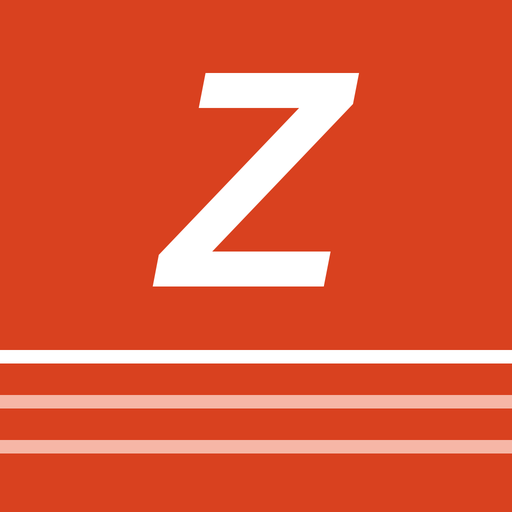
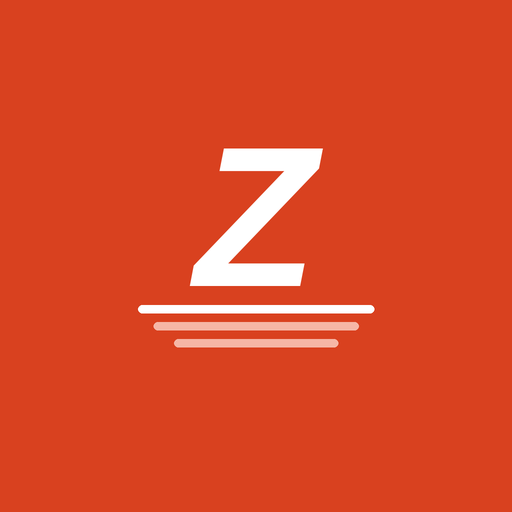
Zonas de pulso y ritmos recalculados con los entrenos; icono adaptable

diff --git a/index.html b/index.html
@@ -178,7 +178,6 @@ a.btn{display:inline-flex;align-items:center;justify-content:center}
 .toast .tbtn{background:transparent;border:0;color:var(--accent);font-weight:700;min-height:36px;padding:4px 6px;flex:none}
 @keyframes toastIn{from{opacity:0;transform:translate(-50%,12px)}to{opacity:1;transform:translate(-50%,0)}}
 @keyframes toastOut{to{opacity:0;transform:translate(-50%,12px)}}
-html.locked,html.locked body{overflow:hidden}
 button,a,select,.item,.ocard,.dayb{touch-action:manipulation}
 button,.btn,.item,.ocard,.dayb{transition:transform .12s ease,background-color .15s ease,border-color .15s ease,color .15s ease,box-shadow .15s ease}
 button:active:not(:disabled),.btn:active,.item:active{transform:scale(.975)}
@@ -462,7 +461,14 @@ function buildWeek(i){
 /* ---------- descripción de cada sesión con ritmos actuales ---------- */
 /* ---------- Zonas de pulso ---------- */
 const HR_Z=[{n:1,name:'Recuperación',lo:0,hi:0.70},{n:2,name:'Suave',lo:0.70,hi:0.80},{n:3,name:'Moderado',lo:0.80,hi:0.87},{n:4,name:'Umbral',lo:0.87,hi:0.93},{n:5,name:'Máximo',lo:0.93,hi:1}];
+const LT_Z=[[0,0.85],[0.85,0.90],[0.90,0.95],[0.95,1.00],[1.00,null]]; // zonas de Friel sobre el umbral
+function hrSource(){
+  if(state.hrm&&state.hrm.lthr) return 'lthr';
+  if(state.strava&&state.strava.hrZones) return 'strava';
+  return hrMaxNow()?'max':null;
+}
 function hrBounds(n){ // [mín, máx] en ppm de la zona n (1–5)
+  if(hrSource()==='lthr'){const L=state.hrm.lthr,z=LT_Z[n-1];return [Math.round(z[0]*L),z[1]?Math.round(z[1]*L):null];}
   const cz=state.strava&&state.strava.hrZones;
   if(cz) return [cz[n-1].min||0,cz[n-1].max>0?cz[n-1].max:null];
   const hm=hrMaxNow();if(!hm) return null;
@@ -617,6 +623,97 @@ function blocksHTML(d){
     return `<li class="blk ${b.k}"><div class="row between" style="align-items:baseline"><span class="bt">${esc(b.t)}</span><span class="bv num">${b.reps>1?`${b.reps} × `:''}${len}</span></div>
       <div class="bm num">${b.lo?`<span>${paceR(b.lo,b.hi)} /km</span>`:''}${b.z?`<span>${hrText(b.z[0],b.z[1])}</span>`:''}${b.rec?`<span>rec. ${esc(b.rec)}</span>`:''}</div>
       ${b.text?`<div class="small muted">${esc(b.text)}</div>`:''}</li>`;}).join('')}</ol>`;
+}
+
+/* =========================================================
+   Pulso medido: umbral (LTHR), FC máxima y ritmos desde la relación pulso–ritmo
+   ========================================================= */
+// FC máxima observada sin picos falsos: si la más alta supera en más de 6 ppm a la siguiente, se descarta
+function robustMax(vals){
+  const v=vals.filter(x=>x>120&&x<225).sort((a,b)=>b-a);
+  if(!v.length) return null;
+  return v.length>1&&v[0]-v[1]>6?v[1]:v[0];
+}
+// Fuentes para estimar el umbral de pulso (Friel): esfuerzos sostenidos con pulso registrado
+function lthrCandidates(){
+  const out=[],from=addDays(today(),-120);
+  const factor=min=>min<14?null:min<35?1.04:min<70?1.01:min<140?0.97:0.92; // pulso medio de carrera respecto al umbral
+  const runs=state.strava?state.strava.runs:[];
+  runs.filter(r=>r.date>=from&&r.hr).forEach(r=>{
+    const ses=r.sessionId?state.sessions.find(x=>x.id===r.sessionId):null;
+    const t=ses?ses.type:null,min=r.sec/60;
+    if(r.race||t==='race'){
+      const f=factor(min);if(f) out.push({v:r.hr/f,date:r.date,label:'carrera'});
+    }else if(t==='test'){
+      // solo los km rápidos del test: el pulso medio de un 5 km a tope ronda el 103 % del umbral
+      const segs=(r.laps.length>=3?r.laps:r.splits).filter(x=>x.hr),avg=r.sec/r.km,w=segs.filter(x=>x.sec/x.km<avg*0.97);
+      const ws=w.reduce((a,x)=>a+x.sec,0);if(ws>=14*60) out.push({v:w.reduce((a,x)=>a+x.hr*x.sec,0)/ws/1.03,date:r.date,label:'test de 5 km'});
+    }else if(t==='tempo'||t==='ritmo'){
+      // segunda mitad de la parte rápida: el pulso ya se ha estabilizado en el umbral
+      const segs=(r.laps.length>=3?r.laps:r.splits).filter(x=>x.hr&&x.km>=0.2);
+      if(segs.length>=3){
+        const avg=r.sec/r.km,work=segs.filter(x=>(x.gap||x.sec/x.km)<avg*0.97);
+        const wsec=work.reduce((a,x)=>a+x.sec,0);
+        if(wsec>=12*60){const half=work.slice(Math.floor(work.length/2));const hr=half.reduce((a,x)=>a+x.hr*x.sec,0)/half.reduce((a,x)=>a+x.sec,0);
+          out.push({v:t==='ritmo'&&state.profile&&['21k','42k'].includes(state.profile.goal)?hr/0.96:hr,date:r.date,label:t==='tempo'?'tempo':'sesión a ritmo de carrera'});}
+      }
+    }
+  });
+  (state.manual||[]).filter(m=>m.date>=from&&m.hr&&m.type==='race').forEach(m=>{const f=factor(m.time/60);if(f)out.push({v:m.hr/f,date:m.date,label:'competición'});});
+  return out.filter(c=>c.v>110&&c.v<215);
+}
+function updateHR(){
+  const H=state.hrm=state.hrm||{lthr:null,date:null,label:null,max:null,hist:[]};
+  const runs=state.strava?state.strava.runs:[];
+  const yr=addDays(today(),-365);
+  const mx=robustMax(runs.filter(r=>r.date>=yr).map(r=>r.hrMax||0).concat((state.manual||[]).map(m=>m.hrMax||0)));
+  if(mx) H.max=mx;
+  const c=lthrCandidates();
+  if(!c.length) return false;
+  // el esfuerzo más alto reciente es el que mejor representa el umbral (los submáximos lo subestiman)
+  let best=c.reduce((a,b)=>b.v>a.v?b:a);
+  const hm=hrMaxNow();
+  let v=Math.round(hm?Math.min(best.v,hm*0.95):best.v);
+  if(H.lthr&&Math.abs(v-H.lthr)<2) return false;
+  const old=H.lthr;
+  H.lthr=v;H.date=best.date;H.label=best.label;H.hist.push({date:today(),v});H.hist=H.hist.slice(-20);
+  if(state.adapt) addEvent('info',old?`Zonas de pulso actualizadas con tu ${best.label} del ${fdShort(best.date)}: tu umbral pasa de ${old} a ${v} ppm.`:`He medido tu umbral de pulso con tu ${best.label} del ${fdShort(best.date)}: ${v} ppm. Tus zonas de pulso ahora salen de ahí.`);
+  return true;
+}
+const lthrNow=()=>{const H=state.hrm;if(H&&H.lthr)return H.lthr;const hm=hrMaxNow();return hm?Math.round(hm*0.89):null;};
+// Ritmos desde el pulso: en tus carreras constantes, la velocidad crece casi en línea recta con el pulso.
+// Extrapolando al umbral sale tu ritmo de umbral, y de ahí tu forma en 5 km.
+function fitnessFromHR(){
+  const L=lthrNow(),ad=state.adapt,td=today();
+  if(!L||!state.fitness||!ad) return false;
+  if(ad.lastHRFit&&daysBetween(ad.lastHRFit,td)<7) return false;
+  // puntos: rodajes constantes enteros y, en las sesiones de calidad, cada tramo rápido por separado (no la media con calentamiento)
+  const pts=[];
+  activities().filter(a=>a.date>=addDays(td,-28)&&a.date<=td&&a.hr&&a.km>=3&&a.sec).forEach(a=>{
+    const r=a.run,segs=r?(r.laps.length>=3?r.laps:r.splits).filter(x=>x.hr&&x.km>=0.4):[];
+    if(segs.length>=3){
+      const pcs=segs.map(x=>x.gap||x.sec/x.km),m=pcs.reduce((x,y)=>x+y,0)/pcs.length,cv=Math.sqrt(pcs.reduce((x,y)=>x+(y-m)**2,0)/pcs.length)/m;
+      if(cv<0.06){pts.push({x:a.hr/L,y:1000/(a.gap||gapFromElev(a.sec,a.km,a.elev)),w:a.sec});return;}
+      const avg=a.sec/a.km;segs.filter(x=>x.sec/x.km<avg*0.97&&x.sec>=150).forEach(x=>pts.push({x:x.hr/L,y:1000/(x.gap||x.sec/x.km),w:x.sec}));
+      return;
+    }
+    if(!r) pts.push({x:a.hr/L,y:1000/(a.gap||gapFromElev(a.sec,a.km,a.elev)),w:a.sec});
+  });
+  const P=pts.filter(q=>q.x>0.7&&q.x<1.08&&q.y>1.5&&q.y<7);
+  if(P.length<6) return false;
+  const W=P.reduce((a,q)=>a+q.w,0),mx=P.reduce((a,q)=>a+q.w*q.x,0)/W,my=P.reduce((a,q)=>a+q.w*q.y,0)/W;
+  const sxx=P.reduce((a,q)=>a+q.w*(q.x-mx)**2,0)/W,sxy=P.reduce((a,q)=>a+q.w*(q.x-mx)*(q.y-my),0)/W,syy=P.reduce((a,q)=>a+q.w*(q.y-my)**2,0)/W;
+  if(sxx<0.0009) return false; // poca variedad de intensidades
+  if(Math.max(...P.map(q=>q.x))<0.92) return false; // sin esfuerzos cerca del umbral no se extrapola
+  const b=sxy/sxx,a=my-b*mx,r2=sxy*sxy/(sxx*syy||1);
+  if(b<=0||r2<0.5) return false;
+  let pEst=(1000/(a+b*1.0))/1.07;const p=state.fitness.p;
+  // un test o una carrera recientes mandan: el pulso solo afina ±2 % alrededor de esa medición
+  const meas=state.fitness.history.filter(h=>h.date>=addDays(td,-28)&&/Test|Carrera|Competición/.test(h.why||'')).pop();
+  if(meas) pEst=clamp(pEst,meas.p*0.98,meas.p*1.02);
+  if(!(pEst>150&&pEst<720)||Math.abs(pEst/p-1)<0.02) return false;
+  ad.lastHRFit=td;
+  return setFitness(p+(pEst-p)*0.3,pEst<p?'En tus últimos entrenos corres más rápido con el mismo pulso':'En tus últimos entrenos te cuesta más pulso ir al mismo ritmo (cansancio, calor o pérdida de forma)');
 }
 
 /* =========================================================
@@ -862,8 +959,10 @@ function setFitness(np,why,force){
     np=Math.max(np,base*0.97);
     if(np>=old-0.5) return false;
   }
+  if(np>old&&!force) np=Math.min(np,old*1.02); // empeorar también va poco a poco
+  if(Math.abs(np-old)<0.5) return false;
   state.fitness.p=np;
-  state.fitness.history.push({date:today(),p:np});
+  state.fitness.history.push({date:today(),p:np,why:String(why).replace(/\.$/,'')});
   if(typeof refreshKm==='function'&&state.plan) refreshKm();
   const d=Math.round((old-np)*5);
   addEvent(np<old?'up':'down',`${why} Tu 5 km estimado pasa de ${ft(old*5)} a ${ft(np*5)} (${d>0?'−':'+'}${ft(Math.abs(d))}). Todos los ritmos se han actualizado.`);
@@ -877,7 +976,7 @@ function _logDone(s,log){
   s.rpeExp=d.rpe;s.snap={title:d.title,lo:d.lo,hi:d.hi,rpe:d.rpe,km:s.km,main:d.blocks.filter(b=>b.k==='main').map(b=>({t:b.t,reps:b.reps||1,dist:b.dist||null,dur:b.dur||null,lo:b.lo,hi:b.hi}))};
   const pace=log.gap||(log.km&&log.time?gapFromElev(log.time,log.km,log.elev):null);
   // 1) Test o carrera: actualiza la forma directamente
-  if((s.type==='test'||s.type==='race')&&log.time){
+  if((s.type==='test'||s.type==='race')&&log.time&&!log.noTest){
     const dist=log.km||(s.type==='test'?5:s.km);
     const np=log.time*Math.pow(5/dist,1.06)/5;
     if(np>150&&np<720) setFitness(np,s.type==='test'?'Test registrado.':'Carrera registrada.',true);
@@ -896,10 +995,10 @@ function _logDone(s,log){
   const hm=hrMaxNow();
   const easyRun=s.type==='easy'||s.type==='long';
   const fastPace=easyRun&&pace&&pace<p*1.12&&log.rpe>=5;
-  const fastHR=easyRun&&log.hr&&hm&&log.hr>hm*0.82;
+  const z2=hrBounds(2),fastHR=easyRun&&log.hr&&z2&&log.hr>z2[1]*1.02;
   if((fastPace||fastHR)&&(!ad.lastFastTip||daysBetween(ad.lastFastTip,td)>=14)){
     ad.lastFastTip=td;
-    addEvent('info',fastHR?`Tu rodaje suave salió con ${Math.round(log.hr)} ppm de media (${Math.round(log.hr/hm*100)} % de tu FC máxima). Para que sea suave, intenta quedarte por debajo de ${Math.round(hm*0.78)} ppm aunque tengas que ir más lento.`
+    addEvent('info',fastHR?`Tu rodaje suave salió con ${Math.round(log.hr)} ppm de media, por encima de tu zona suave (hasta ${z2[1]} ppm). Para que sea suave, quédate por debajo aunque tengas que ir más lento.`
       :`Tu rodaje fue a ${fp(pace)} /km, más rápido que tu zona suave (${fp(p*1.22)}–${fp(p*1.34)}). Ir más lento en los suaves te deja fuerzas para las sesiones de calidad.`);
   }
   // 4) Sesión muy dura: suaviza la siguiente de calidad
@@ -1119,8 +1218,8 @@ async function stravaSync(){
     if(!s.zonesAt||Date.now()-s.zonesAt>7*864e5){
       try{const z=await api('/athlete/zones');const hz=z&&z.heart_rate;if(hz&&hz.custom_zones&&Array.isArray(hz.zones)&&hz.zones.length===5)s.hrZones=hz.zones.map(x=>({min:x.min,max:x.max}));else s.hrZones=null;s.zonesAt=Date.now();}catch(e){}
     }
-    const mx=Math.max(0,...s.runs.map(r=>r.hrMax||0));
-    if(mx>120&&mx<230) s.hrMax=mx;
+    const mx=robustMax(s.runs.map(r=>r.hrMax||0));
+    if(mx) s.hrMax=mx;
     s.lastSync=Date.now();
     const res=afterSync();
     save();
@@ -1136,9 +1235,11 @@ function syncLine(){
 }
 
 /* ---------- análisis de cada carrera ---------- */
-const hrMaxNow=()=>{const pr=state.profile||{},s=state.strava||{};return pr.hrMax||s.hrMaxUser||s.hrMax||(pr.age?Math.round(208-0.7*pr.age):null);};
+const hrMaxNow=()=>{const pr=state.profile||{},s=state.strava||{},H=state.hrm||{};return pr.hrMax||s.hrMaxUser||H.max||s.hrMax||(pr.age?Math.round(208-0.7*pr.age):null);};
 function rpeFromHR(hr){
-  const hm=hrMaxNow();if(!hr||!hm) return null;
+  if(!hr) return null;
+  if(state.hrm&&state.hrm.lthr){const f=hr/state.hrm.lthr;return f<0.81?3:f<0.85?4:f<0.89?5:f<0.93?6:f<0.97?7:f<1.0?8:9;}
+  const hm=hrMaxNow();if(!hm) return null;
   const f=hr/hm;
   return f<0.70?3:f<0.77?4:f<0.82?5:f<0.87?6:f<0.90?7:f<0.93?8:9;
 }
@@ -1158,8 +1259,11 @@ function runLog(r,x){
     rpe:r.rpe||hrR||d.rpe,rpeSrc:r.rpe?'strava':hrR?'fc':'previsto',needsFeel:!r.rpe,
     workPace:QUALITY.includes(x.type)?workPaceOf(r):null};
   if(x.type==='test'){
+    // el test son los 5 km cronometrados, no la sesión entera con calentamiento
     const b=r.be.find(b=>Math.abs(b.d-5000)<60);
     if(b){log.km=5;log.time=b.t;}
+    else{const segs=(r.laps.length>=3?r.laps:r.splits),avg=r.sec/r.km,fast=segs.filter(l=>l.sec/l.km<avg*0.97),fk2=fast.reduce((a,l)=>a+l.km,0);
+      if(fk2>=4.5){log.km=5;log.time=Math.round(fast.reduce((a,l)=>a+l.sec,0)/fk2*5);}else log.noTest=true;}
   }
   return log;
 }
@@ -1191,7 +1295,8 @@ function afterSync(){
     });
     sortSessions();
   }
-  const fit=state.fitness?fitnessFromEfforts():null;
+  let fit=state.fitness?fitnessFromEfforts():null;
+  if(state.adapt){updateHR();if(fitnessFromHR())fit=true;}
   const fat=state.plan?checkFatigue():null;
   if(state.plan) goalCheck();
   return {matched,names,fit,fat};
@@ -1317,8 +1422,8 @@ function analyze(s){
       const gp=s.log.gap||gapFromElev(time,km,s.log.elev)||pace;
       add(gp>=lo*0.97?true:'warn','Ritmo suave',gp>=lo*0.97?`Media de ${fp(gp)} /km${gp!==pace?' (ajustado por desnivel)':''}, dentro de lo suave.`:`Media de ${fp(gp)} /km: más rápido que tu zona suave (${paceR(lo,hi)}).`);
     }
-    if(hm&&segs.length>=2&&segs.every(x=>x.hr)){
-      const hi80=hm*0.80,over=segs.filter(x=>x.hr>hi80).length;
+    if(hrBounds(2)&&segs.length>=2&&segs.every(x=>x.hr)){
+      const hi80=hrBounds(2)[1],over=segs.filter(x=>x.hr>hi80).length;
       add(over/segs.length<=0.25?true:'warn','Pulso',over?`${over} de ${segs.length} km por encima de ${Math.round(hi80)} ppm (Z2).`:`Siempre en Z2 o por debajo.`);
       if(segs.length>=6){ // desacople aeróbico: eficiencia (velocidad/pulso) 1.ª mitad vs 2.ª
         const h=Math.floor(segs.length/2),ef=a=>a.reduce((x,y)=>x+y.km,0)/a.reduce((x,y)=>x+y.sec,0)/(a.reduce((x,y)=>x+y.hr*y.km,0)/a.reduce((x,y)=>x+y.km,0));
@@ -1474,12 +1579,17 @@ function paceZones(){
   return z;
 }
 function renderZonas(){
-  const hm=hrMaxNow(),src=state.profile.hrMax?'la que pusiste en tu perfil':state.strava&&state.strava.hrMax?'la más alta registrada en Strava':state.profile.age?'estimada por tu edad':'';
+  const hm=hrMaxNow(),src=state.profile.hrMax?'la que pusiste en tu perfil':state.hrm&&state.hrm.max?'la más alta medida en tus carreras':state.strava&&state.strava.hrMax?'la más alta registrada en Strava':state.profile.age?'estimada por tu edad':'';
+  const hs=hrSource(),H=state.hrm||{};
+  const lastFit=[...state.fitness.history].reverse().find(h=>h.why);
   app.innerHTML=`<div class="stack-lg"><header class="stack" style="gap:6px"><div class="lanes" aria-hidden="true"></div><a href="#progreso" class="small" style="color:var(--accent);font-weight:600">‹ Progreso</a><h1>Tus zonas</h1>
-    <p class="muted">Calculadas con tu forma actual (5 km en ${ft(state.fitness.p*5)}). Se actualizan solas cuando mejoras.</p></header>
+    <p class="muted">Se recalculan solas con lo que mides en cada entreno: tests, carreras, series, tempos y la relación entre tu pulso y tu ritmo en los rodajes.</p></header>
+    <section class="card stack" style="gap:6px"><span class="eyebrow">Tu forma ahora</span><div class="row between"><span>5 km estimado</span><b class="num zv">${ft(state.fitness.p*5)}</b></div>
+      ${lastFit?`<p class="small muted">Última actualización: ${fdShort(lastFit.date)}. ${esc(lastFit.why)}.</p>`:'<p class="small muted">Aún sin actualizaciones: saldrán de tus próximos entrenos.</p>'}
+      ${H.lthr?`<div class="row between"><span>Umbral de pulso</span><b class="num zv">${H.lthr} ppm</b></div><p class="small muted">Medido con tu ${esc(H.label)} del ${fdShort(H.date)}.</p>`:''}</section>
     <section class="card stack" style="gap:0"><h3 style="margin-bottom:6px">Ritmo</h3>${paceZones().map(([n,lo,hi,t])=>`<div class="zrow"><div><b>${n}</b>${t?`<br><span class="small muted">${t}</span>`:''}</div><span class="num zv">${paceR(lo,hi)} /km</span></div>`).join('')}</section>
     <section class="card stack" style="gap:0"><h3 style="margin-bottom:6px">Pulso</h3>
-      ${hrBounds(1)?HR_Z.map(z=>{const b=hrBounds(z.n);return `<div class="zrow"><div><b>Z${z.n} · ${z.name}</b></div><span class="num zv">${z.n===1?`<${b[1]}`:!b[1]?`>${b[0]}`:`${b[0]}–${b[1]}`} ppm</span></div>`;}).join('')+`<p class="small muted" style="margin-top:8px">${state.strava&&state.strava.hrZones?'Son tus zonas personalizadas de Strava.':`Con una FC máxima de ${hm} ppm (${src}). Puedes cambiarla en Perfil.`}</p>`
+      ${hrBounds(1)?HR_Z.map(z=>{const b=hrBounds(z.n);return `<div class="zrow"><div><b>Z${z.n} · ${z.name}</b></div><span class="num zv">${z.n===1?`<${b[1]}`:!b[1]?`>${b[0]}`:`${b[0]}–${b[1]}`} ppm</span></div>`;}).join('')+`<p class="small muted" style="margin-top:8px">${hs==='lthr'?`Calculadas sobre tu umbral de pulso medido (${H.lthr} ppm). Se actualizan cuando hagas un tempo, un test o una carrera con pulsómetro.`:hs==='strava'?'Son tus zonas personalizadas de Strava. Cuando hagas un tempo, un test o una carrera con pulsómetro, las calcularé con tu umbral medido.':`Con una FC máxima de ${hm} ppm (${src}). Cuando hagas un tempo, un test o una carrera con pulsómetro, las calcularé con tu umbral medido.`}</p>`
       :'<p class="small muted">Pon tu FC máxima o tu edad en Perfil (o conecta Strava) para ver tus zonas de pulso.</p>'}</section>
     <section class="card stack"><h3>Cómo usarlas</h3><p class="small">El 80 % de los kilómetros deberían ir en zona suave. Si el ritmo y el pulso no cuadran (calor, cuestas, cansancio), manda el pulso en los días suaves y el ritmo en las series.</p></section></div>`;
 }
@@ -1623,6 +1733,9 @@ function openSession(id){
     ${s.status==='done'?`<button class="ghost" data-act="unlog" data-id="${s.id}">${s.log&&s.log.strava?'Desvincular de Strava':'Borrar registro'}</button>`:''}
     <div class="grid2"><a class="btn" href="#zonas" data-act="close" style="text-align:center;text-decoration:none">Ver mis zonas</a><button class="ghost" data-act="close">Cerrar</button></div></div>`);
 }
+// semanas desplegadas en Plan: se recuerdan mientras usas la app
+let openWeeks=null;
+document.addEventListener('toggle',e=>{const d=e.target;if(!d.classList||!d.classList.contains('wk'))return;if(!openWeeks){openWeeks=new Set();document.querySelectorAll('details.wk[open]').forEach(x=>openWeeks.add(+x.dataset.w));}if(d.open)openWeeks.add(+d.dataset.w);else openWeeks.delete(+d.dataset.w);},true);
 function renderPlan(){
   const plan=state.plan,cw=curWeek(),td=today();
   const weeks=plan.curve.map((c,i)=>{
@@ -1638,7 +1751,7 @@ function renderPlan(){
       <span class="grow"><span class="t">${d.title}</span><br><span class="s num">${timeBased?d.dur+' min':fk(s.status==='done'&&s.log&&s.log.km?s.log.km:s.km)+' km'}${s.type!=='cuestas'&&s.type!=='runwalk'?' · '+(s.status==='done'&&s.log&&s.log.km&&s.log.time?fp(s.log.time/s.log.km)+' /km':paceR(d.lo,d.hi)+' /km'):''}${s.moved||s.manual?' · movida':''}</span></span>
       ${s.status==='done'?`<span class="status d">${a&&a.verdict[1]!=='ok'?a.verdict[0]:'Hecha'}</span>`:s.status==='skipped'?'<span class="status s">Saltada</span>':s.status==='paused'?'<span class="status s">Pausa</span>':chipFor(s)}
     </button>`;}).join('');
-    return `<details class="wk" ${i===cw?'open':''}>
+    return `<details class="wk" data-w="${i}" ${(openWeeks?openWeeks.has(i):i===cw)?'open':''}>
       <summary><span class="grow" style="flex:1"><b style="font-family:var(--display);font-size:19px">Semana ${i+1}</b> <span class="small muted">${fdShort(wkS)} – ${fdShort(addDays(wkS,6))}</span><br><span class="small muted">${PHASE_N[c.phase]}${c.down?' · descarga':''}${i===cw?' · esta semana':''}</span></span>
       <span class="num" style="font-family:var(--display);font-weight:800;font-size:20px">${fk(km)}<span class="unit" style="font-size:15px">km</span></span></summary>
       ${i<=cw&&ss.length?`<div class="bar" style="margin-top:12px" aria-label="${done} de ${ss.length} sesiones hechas"><i style="width:${ss.length?done/ss.length*100:0}%"></i></div>`:''}
@@ -2154,6 +2267,7 @@ function saveAddRun(){
       if(state.fitness){const np=t*Math.pow(5/km,1.06)/5;if(np>150&&np<720){setFitness(np,'Competición registrada.',true);msg='Competición registrada: ritmos actualizados.';}}
     }
     if(state.plan&&checkFatigue()) msg+=' Plan ajustado por la carga.';
+    if(state.adapt&&updateHR()) msg+=' Zonas de pulso actualizadas.';
   }
   save();closeSheet();route();toast(msg,{undo:snap});
 }
@@ -2210,9 +2324,22 @@ function route(){
 }
 
 /* ---------- Hojas: deslizar para cerrar, fondo bloqueado ---------- */
+// bloqueo del fondo sin perder la posición: el cuerpo se fija donde estaba y al cerrar se vuelve exactamente a ese punto
+let lockedY=null;
+function lockScroll(){
+  if(lockedY!==null) return;
+  lockedY=window.scrollY;const b=document.body.style;
+  b.position='fixed';b.top=`-${lockedY}px`;b.left='0';b.right='0';b.width='100%';
+}
+function unlockScroll(){
+  if(lockedY===null) return;
+  const y=lockedY;lockedY=null;const b=document.body.style;
+  b.position='';b.top='';b.left='';b.right='';b.width='';
+  window.scrollTo(0,y);
+}
 function closeSheet(instant){
   const bg=layer.querySelector('.sheet-bg');if(!bg) return;
-  document.documentElement.classList.remove('locked');
+  unlockScroll();
   if(instant||matchMedia('(prefers-reduced-motion: reduce)').matches){bg.remove();return;}
   bg.classList.add('closing');setTimeout(()=>bg.remove(),200);
 }
@@ -2228,7 +2355,7 @@ function openSheet(html){
   sh.addEventListener('touchmove',e=>{if(y0==null)return;dy=e.touches[0].clientY-y0;if(dy>0){sh.style.transform=`translateY(${dy}px)`;}else{y0=null;sh.style.transform='';}},{passive:true});
   sh.addEventListener('touchend',()=>{if(y0==null)return;sh.style.transition='';if(dy>110){sh.style.transform=`translateY(100%)`;closeSheet();}else sh.style.transform='';y0=null;});
   layer.appendChild(bg);
-  document.documentElement.classList.add('locked');
+  lockScroll();
 }
 
 /* ---------- Registrar una sesión ---------- */

diff --git a/sw.js b/sw.js
@@ -1,7 +1,7 @@
 // Zancada: guarda la app en el móvil para que abra sin conexión.
 // Las peticiones a Strava nunca se guardan en caché.
-const CACHE = 'zancada-v7';
-const SHELL = ['./', './index.html', './manifest.webmanifest', './icon-192.png', './icon-512.png', './apple-touch-icon.png'];
+const CACHE = 'zancada-v9';
+const SHELL = ['./', './index.html', './manifest.webmanifest', './icon-192.png', './icon-512.png', './apple-touch-icon.png', './icon-maskable-192.png', './icon-maskable-512.png'];
 
 self.addEventListener('install', e => {
   e.waitUntil(caches.open(CACHE).then(c => c.addAll(SHELL)).then(() => self.skipWaiting()));

diff --git a/LEEME.md b/LEEME.md
@@ -12,7 +12,7 @@ Necesitas:
 
 1. Entra en https://github.com y crea una cuenta si no tienes.
 2. Pulsa **New repository**. Nombre: `zancada`. Márcalo como **Public** y pulsa **Create repository**.
-3. En el repositorio vacío, pulsa **uploading an existing file**. Arrastra **todo el contenido** de esta carpeta (`index.html`, `manifest.webmanifest`, `sw.js`, `robots.txt` y los tres iconos `.png`). Pulsa **Commit changes**.
+3. En el repositorio vacío, pulsa **uploading an existing file**. Arrastra **todo el contenido** de esta carpeta (`index.html`, `manifest.webmanifest`, `sw.js`, `robots.txt` y los cinco iconos `.png`). Pulsa **Commit changes**.
 4. Ve a **Settings › Pages**. En *Source* elige **Deploy from a branch**, rama `main`, carpeta `/ (root)`, y pulsa **Save**.
 5. En uno o dos minutos la app estará en:
    `https://TU-USUARIO.github.io/zancada/`
@@ -78,6 +78,7 @@ Algunos navegadores bloquean que una página hable directamente con Strava (es u
 - **Mejores marcas:** puedes poner tus marcas de 5 km, 10 km, media y maratón con su antigüedad. Con Strava, la app busca además tus mejores esfuerzos (1 km, 1 milla, 5 km, 10 km, media, maratón) en el último año. La forma de partida sale de la marca que mejor te representa hoy: las antiguas cuentan menos.
 - **Desnivel:** eliges el perfil de la carrera (llana, ondulada, con cuestas, de montaña). Ajusta la predicción y la marca objetivo, y mete cuestas en las fases fuertes si la carrera las tiene. El análisis usa el ritmo ajustado por pendiente de Strava.
 - **Añadir entreno:** desde Hoy o Progreso puedes registrar a mano cualquier carrera (fecha, tipo, distancia, tiempo, desnivel, pulso, esfuerzo). Si ese día había sesión, cuenta como hecha. Las competiciones actualizan tus marcas y tus ritmos. Cualquier registro se puede borrar.
+- **Zonas y ritmos que se recalculan solos:** el umbral de pulso se mide en tus tempos, tests y carreras con pulsómetro, y de ahí salen tus zonas. Los ritmos se ajustan con tests, carreras, series y con la relación entre tu pulso y tu ritmo en los rodajes. Los cambios son graduales y se explican en la app.
 - **Tiempo disponible:** si indicas un máximo para los días entre semana, las sesiones se acortan para caber en él.
 
 ## 6. Datos y copias de seguridad
